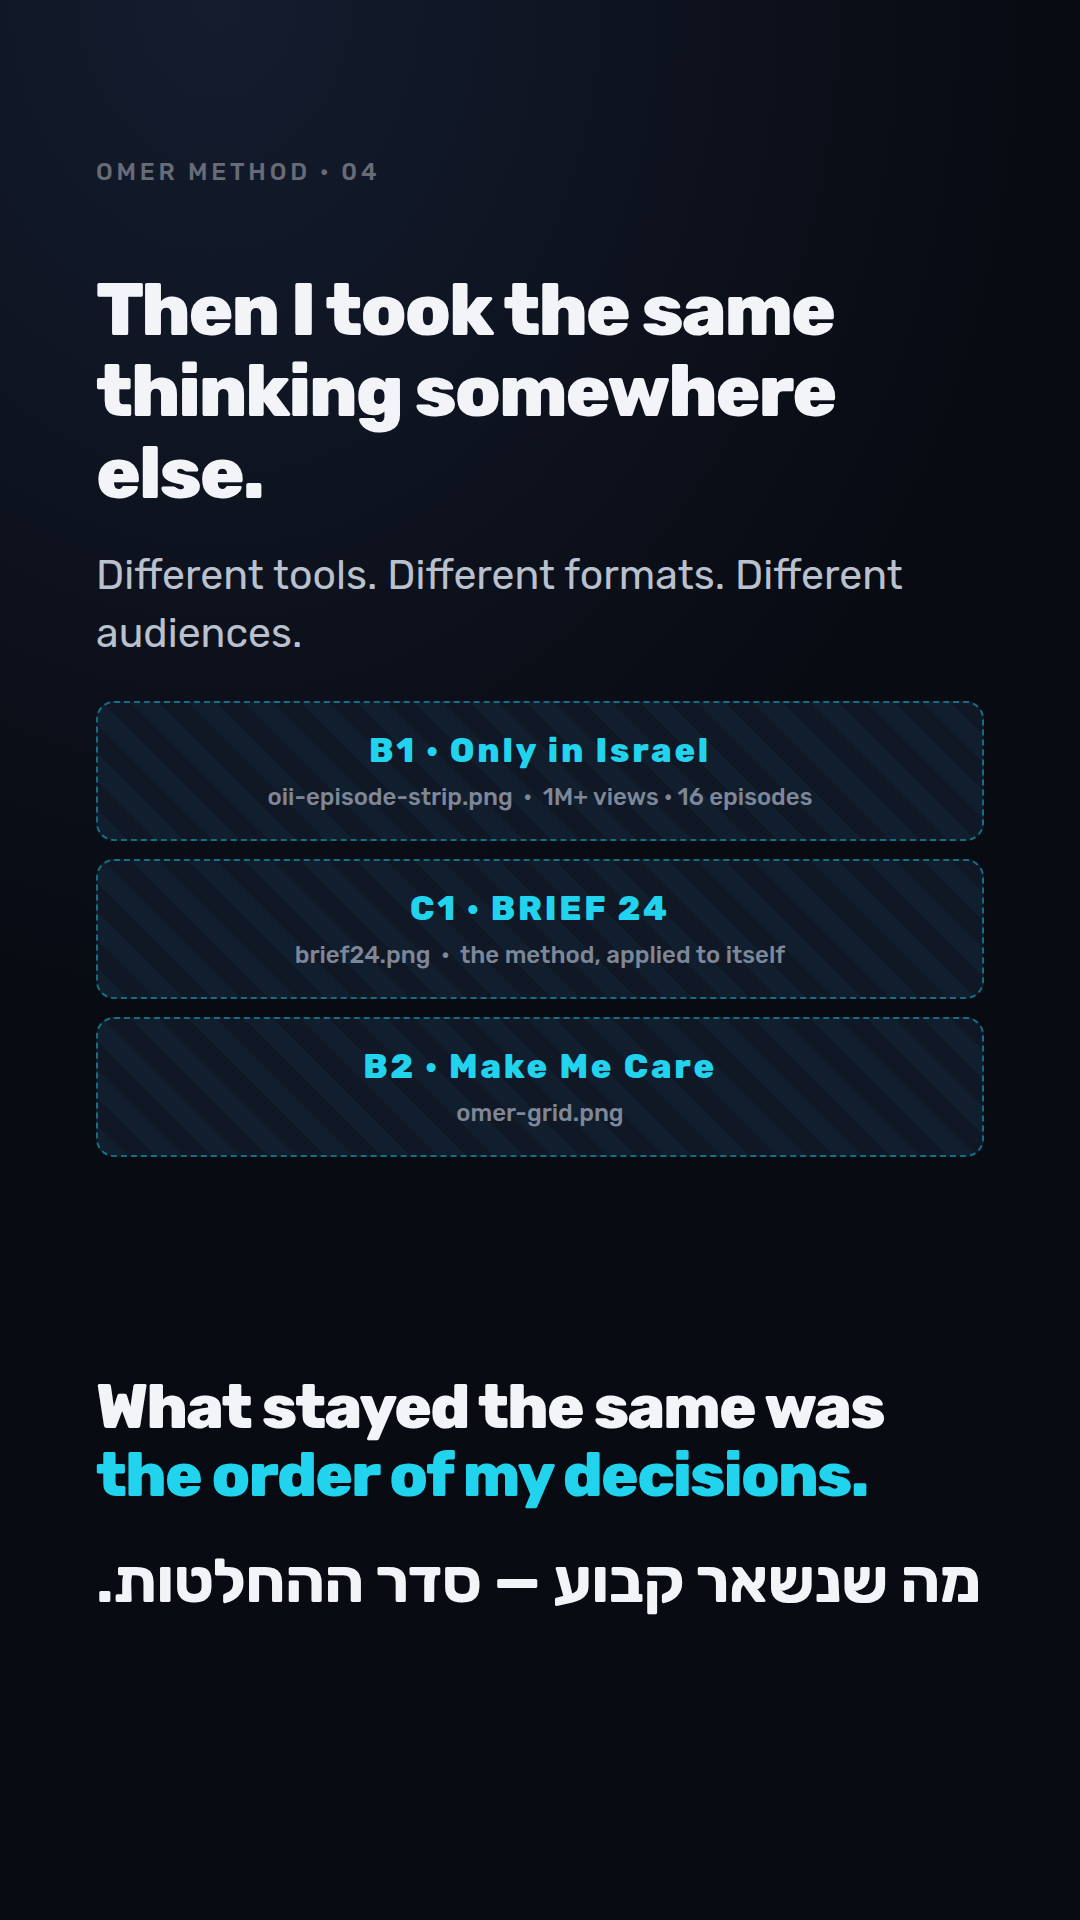
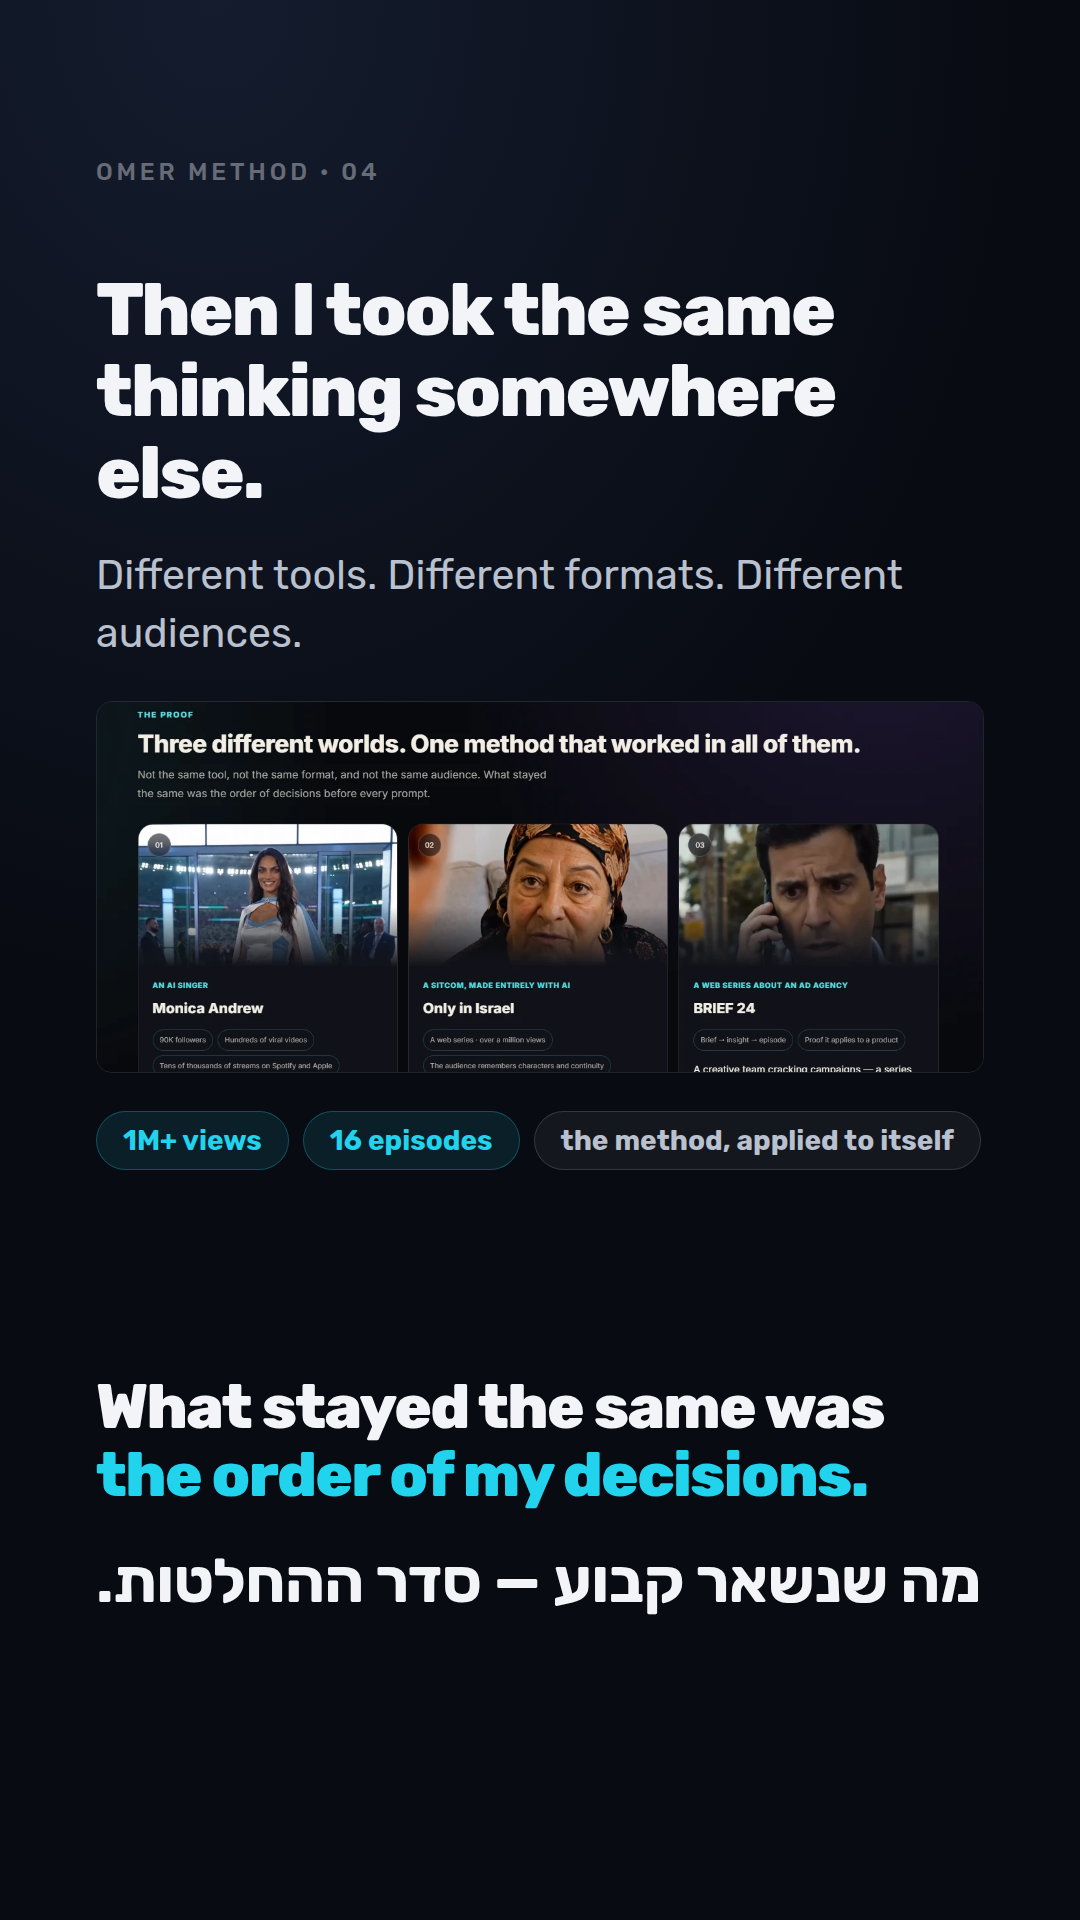
Composite the real proof strip into frame 4
Recovered the site's THE PROOF section from git history: GitHub's web
uploader names every pasted image image.png, so each of three uploads
overwrote the last and only the newest survived in the tree.

That strip carries Monica, Only in Israel and BRIEF 24 in one band, which
is exactly what frame 4 needed, so its three placeholder zones are
replaced with the screenshot itself and the stat chips move below it.
Frame 4 is now finished rather than waiting on assets.

Claude-Session: https://claude.ai/code/session_0113ue75zsKk6knXSw8ei82D

Changed region(s): [[0.0917, 0.3438, 0.9167, 0.625]]

diff --git a/omer-method-launch/01-stories/frames.html b/omer-method-launch/01-stories/frames.html
@@ -64,6 +64,11 @@
   .zone .zdesc{font-size:24px;font-weight:400;color:var(--muted);
                direction:rtl;max-width:76%;line-height:1.4}
 
+  /* a real screenshot, clipped to the region worth showing */
+  .shot{overflow:hidden;border-radius:16px;border:1px solid rgba(255,255,255,.10);
+        margin-top:38px;flex-shrink:0}
+  .shot img{display:block;width:888px}
+
   .hero{position:absolute;inset:0;border-radius:0;border-width:2px;
         justify-content:flex-start;padding-top:340px}
   .hero::after{content:'';position:absolute;inset:0;pointer-events:none;
@@ -148,19 +153,13 @@
   <div class="tag">Omer Method · 04</div>
   <div class="en lead sm">Then I took the same<br>thinking somewhere else.</div>
   <div class="en sub">Different tools. Different formats. Different audiences.</div>
-  <div style="display:flex;flex-direction:column;gap:18px;margin-top:38px">
-    <div class="zone" style="height:140px">
-      <div class="zid">B1 · Only in Israel</div>
-      <div class="zfile">oii-episode-strip.png &nbsp;·&nbsp; 1M+ views · 16 episodes</div>
-    </div>
-    <div class="zone" style="height:140px">
-      <div class="zid">C1 · BRIEF 24</div>
-      <div class="zfile">brief24.png &nbsp;·&nbsp; the method, applied to itself</div>
-    </div>
-    <div class="zone" style="height:140px">
-      <div class="zid">B2 · Make Me Care</div>
-      <div class="zfile">omer-grid.png</div>
-    </div>
+  <div class="shot" style="height:372px">
+    <img src="../02-assets/screenshots/proof-three-worlds.png" alt="">
+  </div>
+  <div class="chips">
+    <div class="chip">1M+ views</div>
+    <div class="chip">16 episodes</div>
+    <div class="chip plain">the method, applied to itself</div>
   </div>
   <div class="spacer"></div>
   <div class="en lead" style="margin-top:24px;font-size:62px">What stayed the same was<br><span class="accent">the order of my decisions.</span></div>

diff --git a/omer-method-launch/02-assets/asset-manifest.md b/omer-method-launch/02-assets/asset-manifest.md
@@ -13,6 +13,7 @@ Drop files into `02-assets/screenshots/` using the exact filenames below.
 | `B1` | `oii-episode-strip.png` | Only in Israel — Ep 6–9 + Kapara Edition thumbnails | Frame 4 |
 | `B2` | `omer-grid.png` | omer_creatorai grid — OII + BRIEF 24 + MAKE ME CARE | Frame 4 |
 | `O1` | `omer-profile.png` | omer_creatorai — 51 posts, 17.9K followers, bio | Reference |
+| `P1` | `proof-three-worlds.png` | Site's THE PROOF strip — Monica, Only in Israel, BRIEF 24 in one band | **Frame 4 — composited** |
 | `E3` | `method-landing.png` | omermethod.com hero — headline, pricing, CTA | Frame 10 / carousel |
 | `D2a` | `comments-monica-emotion.png` | HE/EN/FR/PT comments, incl. **889-like** comment, "934 comments from Facebook" | **Frame 5** |
 | `D3` | `comments-ring-column.png` | The "Ring" keyword column | **Frame 6** |
@@ -45,3 +46,13 @@ PNGs, the source files need to land in `02-assets/screenshots/` by one of:
 
 Otherwise the deliverable is transparent frame overlays with exact placement
 marks, composited by hand in Canva or Photoshop.
+
+## Uploading: name files before you upload them
+
+GitHub's web uploader names a **pasted** image `image.png` every time, so each
+paste silently overwrites the previous one — three uploads landed as one file.
+Earlier versions are still in git history (`git show <commit>:<path>`), which is
+how `proof-three-worlds.png` was recovered.
+
+Save each screenshot to disk with its manifest name first, then upload the
+files. Don't paste from the clipboard.
